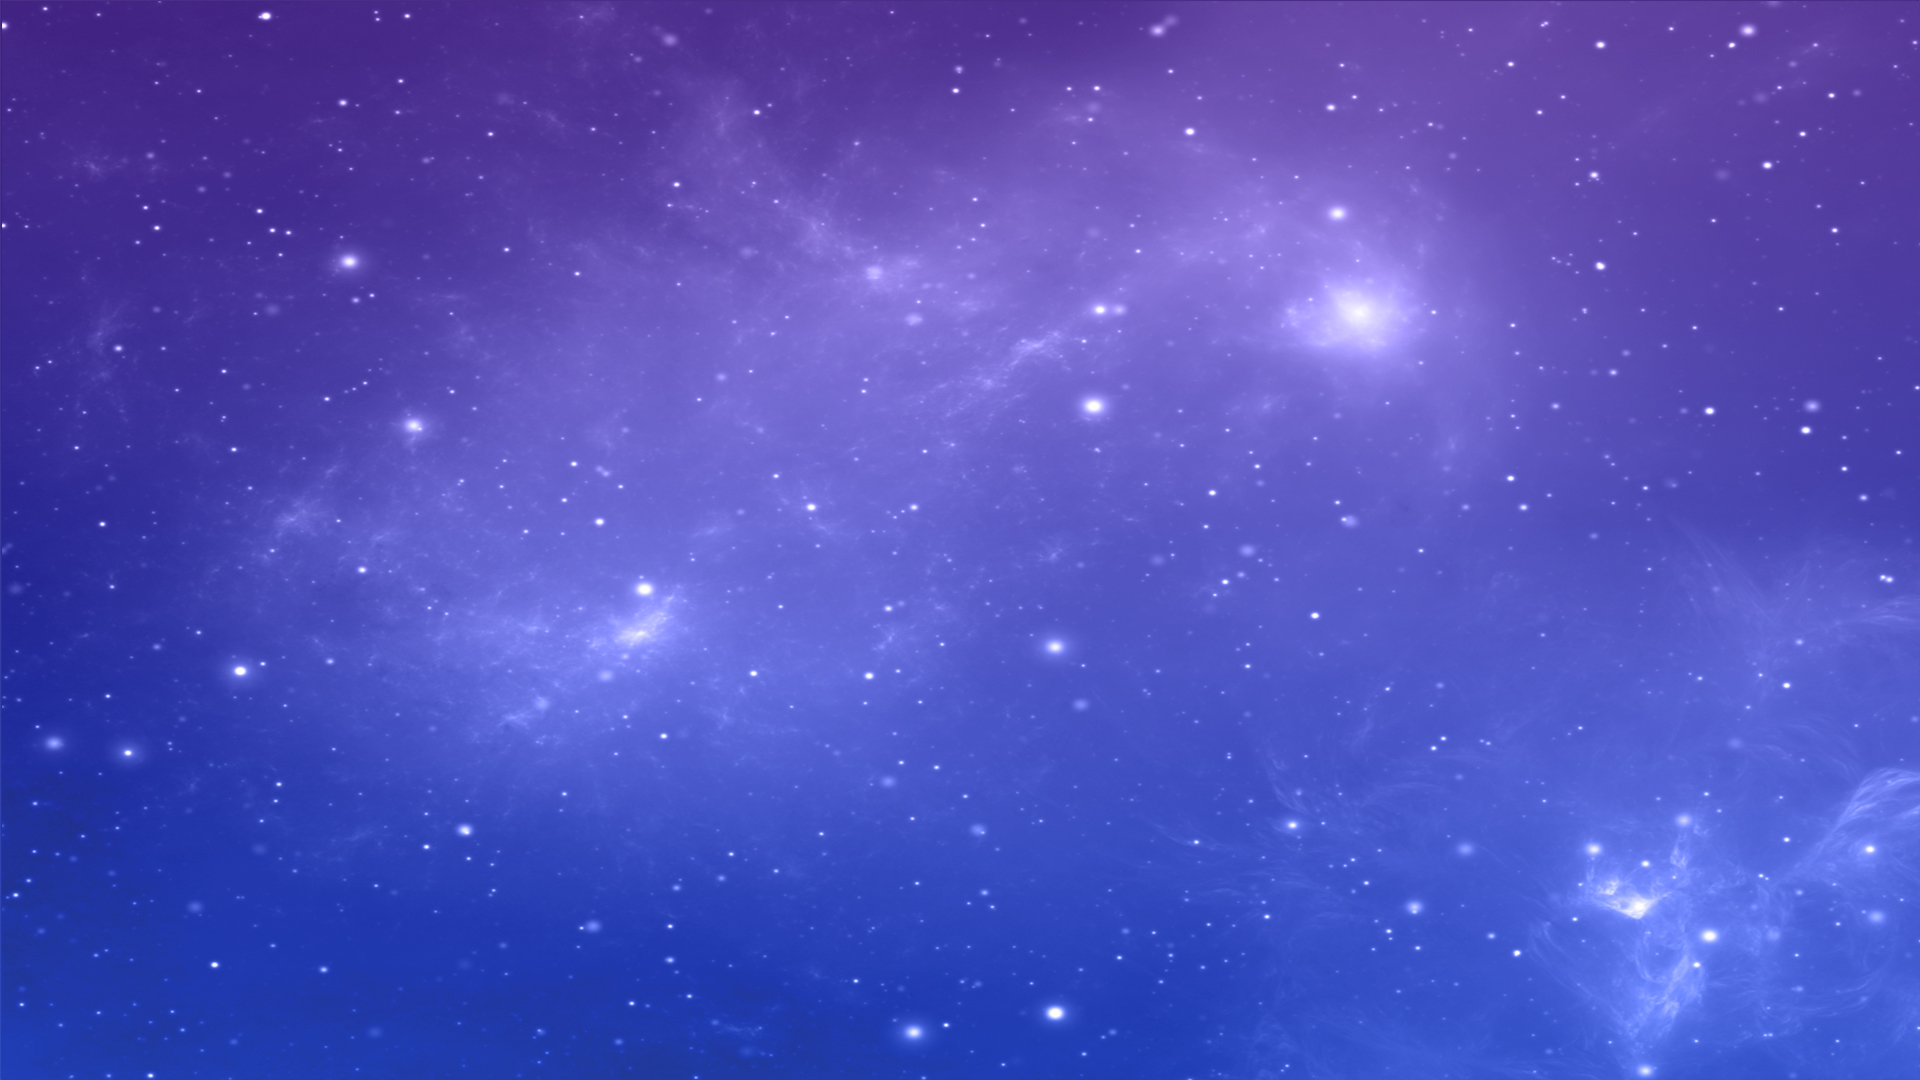
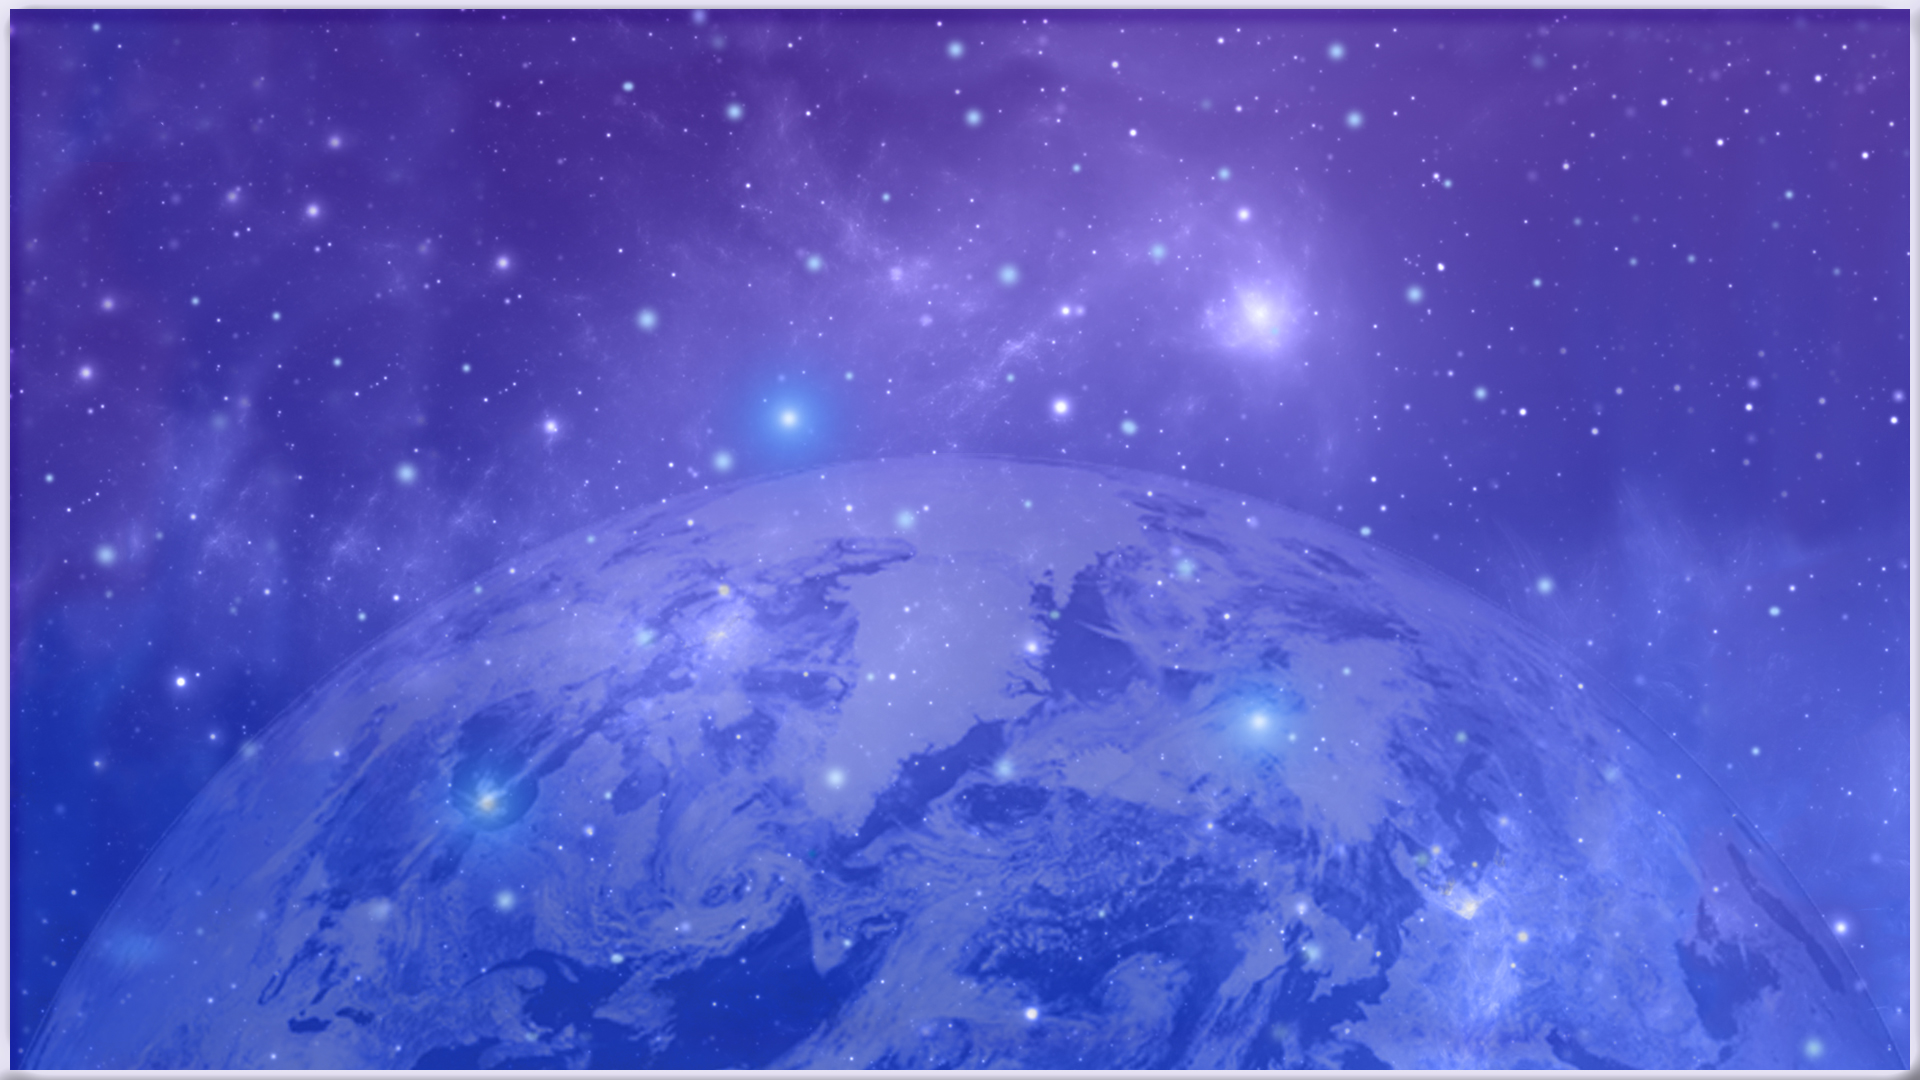
SF2: frontend, added new background image and changed the css

diff --git a/backend/src/CurveGame/WebBundle/Resources/public/css/index2.css b/backend/src/CurveGame/WebBundle/Resources/public/css/index2.css
@@ -10,7 +10,6 @@ body{
     right:0;
     display: block;
     position:absolute;
-    height:auto;
 }
 
 h1{
